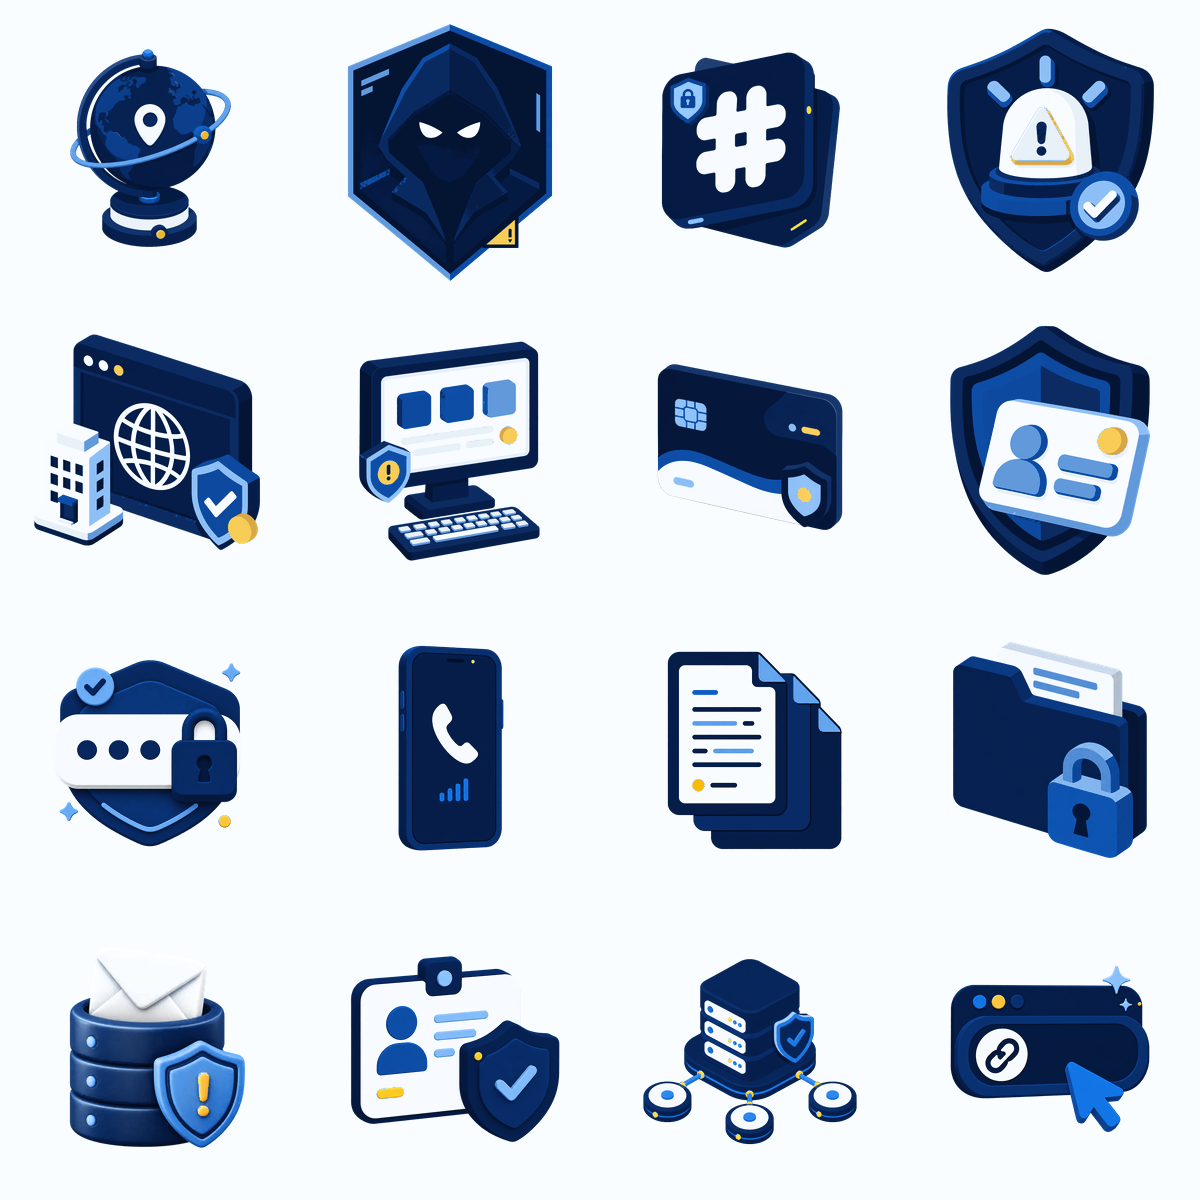
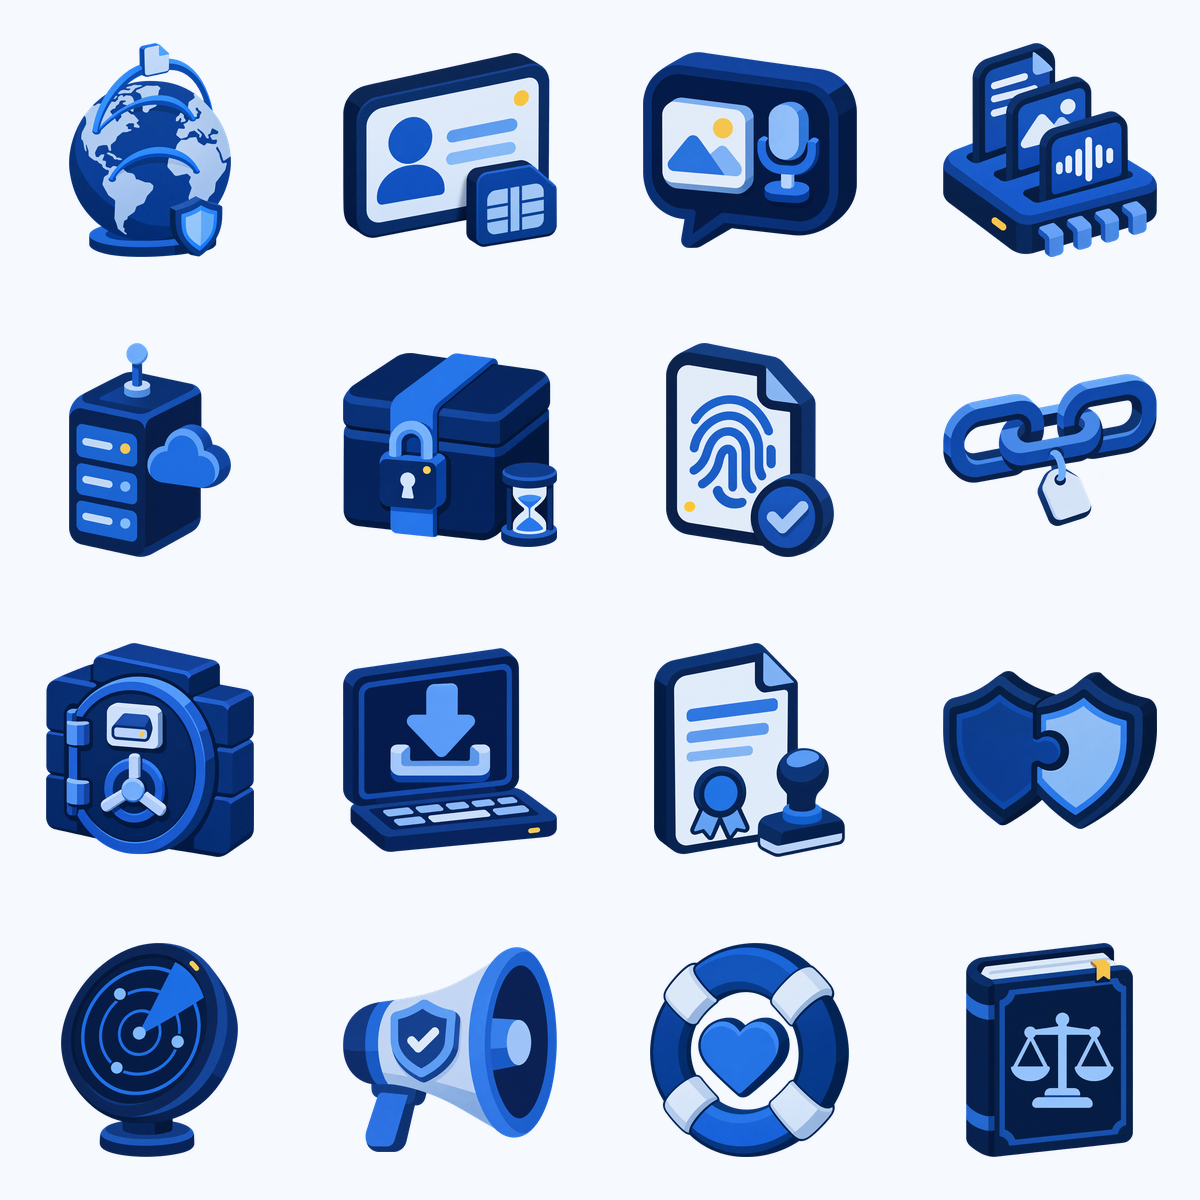
Reference sheets: flat replacement for the glossy tile, blue sheet built from the deck's own illustrations

diff --git a/skills/slide-deck/SKILL.md b/skills/slide-deck/SKILL.md
@@ -40,7 +40,7 @@ Layout of the project:
 
 Every content slide has illustration. Icon-only slides were called boring. Small lucide icons are fine as row markers only when the slide also has art.
 
-- One family: compact pseudo-3D objects from flat colour planes, no gradients or glow, one colour family plus a tiny yellow marker. The style reference sheets are `assets/ref/blue-indicators.png` and `green-indicators.png`. For another colour, recolour a sheet (see `tools/blue_ref.py`) and change the palette line in `tools/art.mjs`.
+- One family: compact pseudo-3D objects from flat colour planes, no gradients or glow, one colour family plus a tiny yellow marker. The style reference sheets are `assets/ref/blue-indicators.png` and `green-indicators.png`. Every tile on a sheet must itself be flat: one glossy tile pulls new images toward gradients. For another colour, recolour a sheet to start (`tools/blue_ref.py`), change the palette line in `tools/art.mjs`, generate a first batch, then rebuild the sheet from 16 of your own best results and use that from then on (the blue sheet was made this way).
 - Add a line per image to `tools/art-list.tsv` (`name<TAB>concept`). A concept is one clear object with at most two supporting details and no text: "a sealed envelope with a padlock on its flap and a small crossed-out eye badge".
 - `P=4 bash tools/art-batch.sh` generates what is missing with the Codex CLI's image tool (about 80 s each; needs `codex` installed and signed in, model set in `tools/art.mjs`). Run it in the background and keep writing slides. Some runs fail silently: when it finishes, check every name exists and run it again for the missing ones.
 - `docker build -q -t deck-pack -f tools/Dockerfile tools && docker run --rm -v "$PWD":/w -w /w deck-pack python tools/art_finish.py` trims them into `deck/public/art/*.webp`. Use with `<HaloArt name="..." size={...} />`.
